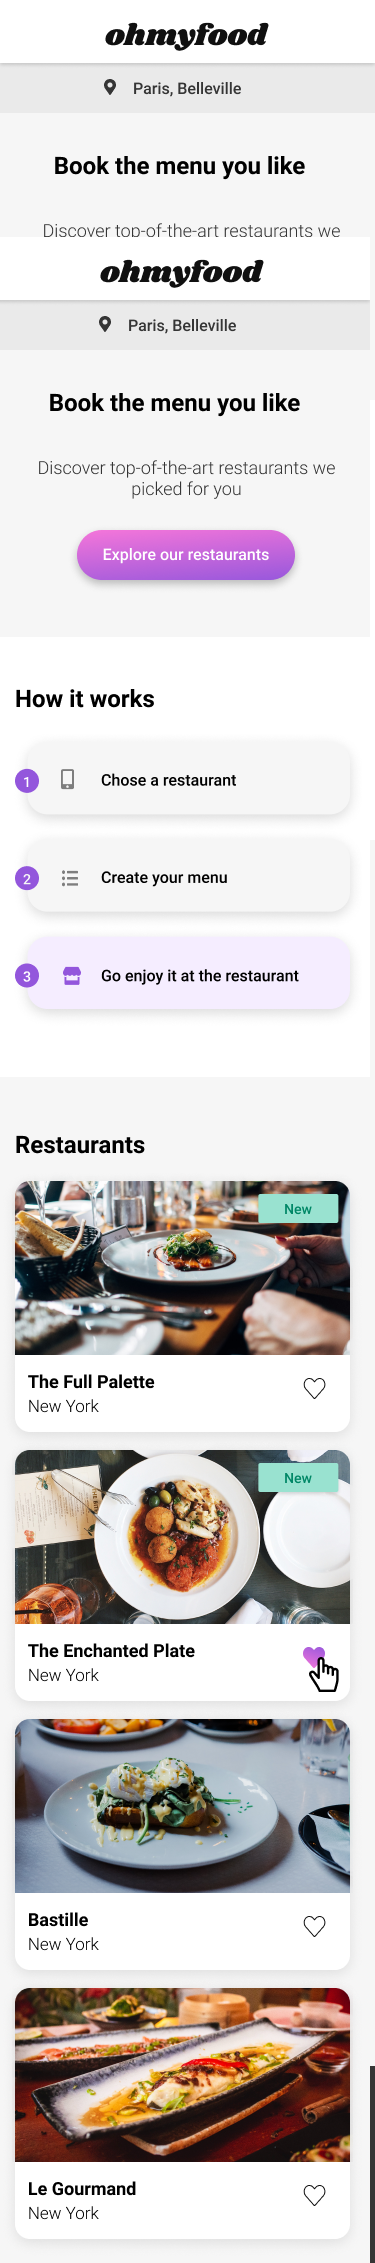
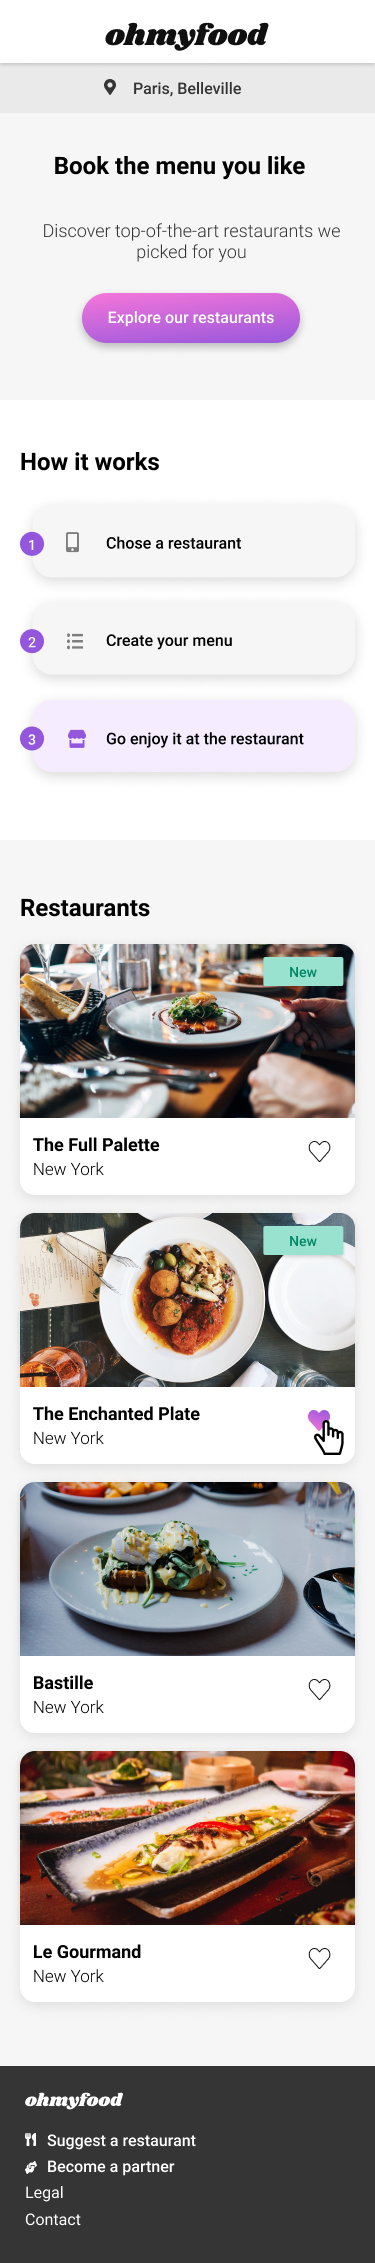
Preview not working

diff --git a/index.html b/index.html
@@ -19,49 +19,48 @@
 <body>
   <header>
     <img class="logo" src="/images/logo/ohmyfood.png" alt="ohmyfood logo using black font">
+    <form class="search-box" action="index.html">
+      <div class="search-bar">
+        <i class="fa-solid fa-location-dot search_pin"></i>
+        <input class="search_text" type="text" placeholder="Paris, France">
+      </div>
+    </form>
   </header>
 
-  <form class="search-box" action="index.html">
-    <i class="fa-solid fa-location-dot search_pin"></i>
-    <input class="search_text" type="text" placeholder="Paris, Belleville">
-  </form>
 
   <div class="tagline">
     <h1>Book the menu you like</h1>
     <p>Discover top-of-the-art restaurants we picked for you</p>
-    <button class="explore">Explore our restaurants</button>
+    <button class="explore-btn">Explore our restaurants</button>
   </div>
 
-  <div class=instructions>
 
-    <span class="title-instructions">
-      <h2>How it works</h2>
-    </span>
+  <div>
+    <h2>How it works</h2>
+  </div>
 
+
+  <div class="instructions">
     <div>
       <button class="btn-instructions">Choose a restaurant</button>
-      <i class="fa-sharp fa-solid fa-mobile-screen-button fa-2xl icon-phone"></i>
+      <!-- <i class="fa-sharp fa-solid fa-mobile-screen-button fa-2xl icon-phone"></i> -->
     </div>
 
     <div>
       <button class="btn-instructions">Create your menu</button>
-      <i class="fa-sharp fa-solid fa-bars fa-2xl icon-menu"></i>
+      <!-- <i class="fa-sharp fa-solid fa-bars fa-2xl icon-menu"></i> -->
     </div>
 
     <div>
       <button class="btn-instructions">Go enjoy it at the restaurant</button>
-      <i class="fa-solid fa-store fa-2xl icon-restaurant"></i>
+      <!-- <i class="fa-solid fa-store fa-2xl icon-restaurant"></i> -->
+    </div>
+  </div>
+
+  <div class="restaurants">
+    <img class="restaurants-pic" src="images/restaurants/jay-wennington-N_Y88TWmGwA-unsplash.jpg" alt="steak">
+    <div class="text">
+      <p><b>steak</b></p>
     </div>
 
-    <div class="restaurants">
-
-      <span class="title-instructions">
-        <h3>How it works</h3>
-      </span>
-      
-      <div class="restaurant-pics"></div>
-
-    </div>
-
-
-</body>
+  </div>

diff --git a/sass/main.scss b/sass/main.scss
@@ -1,4 +1,3 @@
-
 html {
     -webkit-box-sizing: border-box;
     -moz-box-sizing: border-box;
@@ -13,73 +12,68 @@ html {
     box-sizing: inherit;
 }
 
-$primary-color: #9356DC;
-$secondary-color: #FF79DA;
-$tertiary-color: #99E2D0;
 
-$font-text: Roboto;
-$font-logo-titles: Shrikhand;
+
 
 .logo {
     border-style: none;
-    height: 10px;
-    padding-left: 95px;
+    height: 40px;
+    padding-left: 50px;
     margin-top: 20px;
     margin-bottom: 10px;
 }
 
 form {
-    background-color: lightgray;
-    height: 30px;
-    }
+    background-color: plum;
+    height: 60px;
+    position: relative;
+}
+
+.search-bar {
+    position: absolute;
+    right: 40px;
+}
 
 
 .tagline {
-    background-color: blue;
+   background-color: greenyellow;
+  
+
 }
 
-.explore {
+.explore-btn {
     border-radius: 25px;
     height: 50px;
     background-image: linear-gradient(#FF79DA, #9356DC);
+   
 }
 
 .instructions {
-    background-color: red;
-    position: relative;
+    background-color: violet;
+    height: 300px;
 
-    .btn-instructions {
+}
+
+
+
+.btn-instructions {
+    position: relative;
     border-radius: 30px;
     height: 85px;
     width: 320px;
-    font-family:  Roboto;
+    font-family: Roboto;
     display: flex;
     padding: 30px;
     margin-top: 20px;
     margin-left: 20px;
     padding-left: 100px;
-    }
+    background-color: #9356DC;
 }
 
-.icon-phone {
+
+icon-phone {
     position: absolute;
-    top: 90px;
-    left: 50px;
+    bottom: 10px;
+    right: 40px;
 }
 
-.icon-menu {
-    position: absolute;
-    top:  190px;
-    left: 40px;
-}
-  
-
-.icon-restaurant {
-    position: absolute;
-    bottom: 80px;
-    left: 40px;
-}
-
-.restaurants {
-    background-color: #FF79DA;
-}

diff --git a/css/style.css b/css/style.css
@@ -14,22 +14,22 @@ html {
 
 .logo {
   border-style: none;
-  height: 10px;
-  padding-left: 95px;
+  height: 40px;
+  padding-left: 50px;
   margin-top: 20px;
   margin-bottom: 10px;
 }
 
 form {
-  background-color: lightgray;
-  height: 30px;
+  background-color: #f2f2f2;
+  height: 60px;
 }
 
 .tagline {
   background-color: blue;
 }
 
-.explore {
+.explore-btn {
   border-radius: 25px;
   height: 50px;
   background-image: linear-gradient(#FF79DA, #9356DC);
